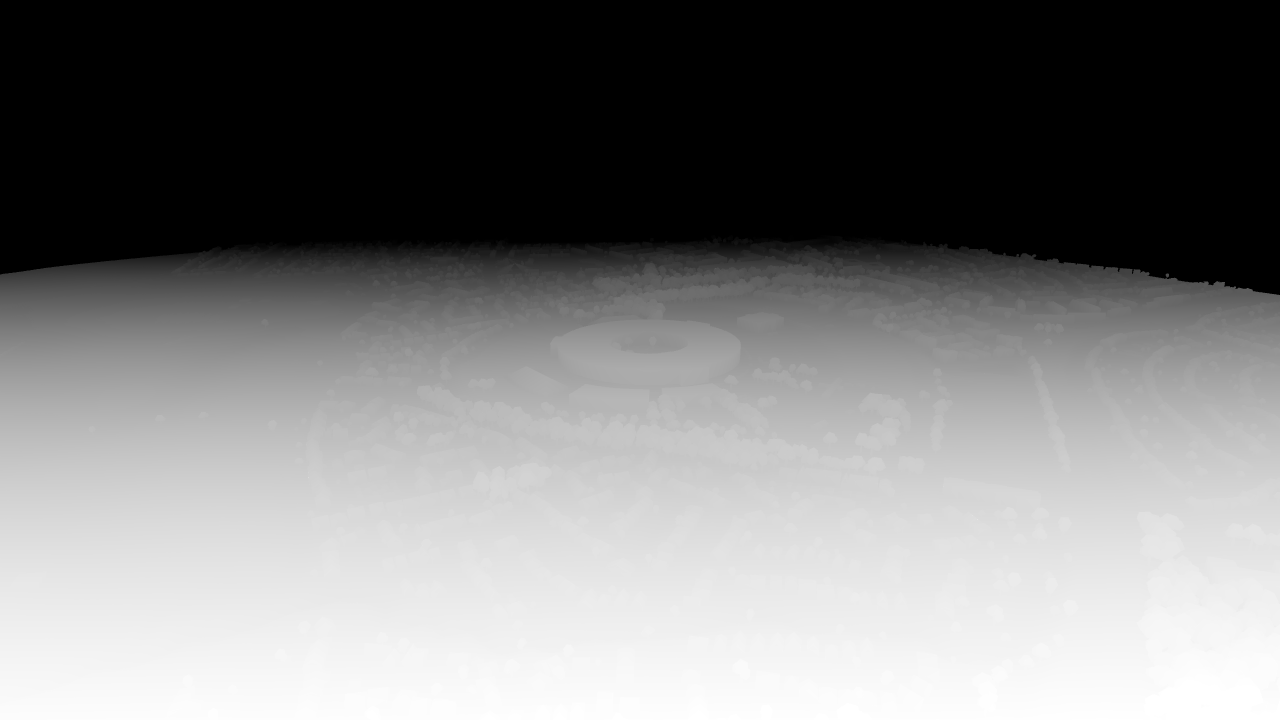
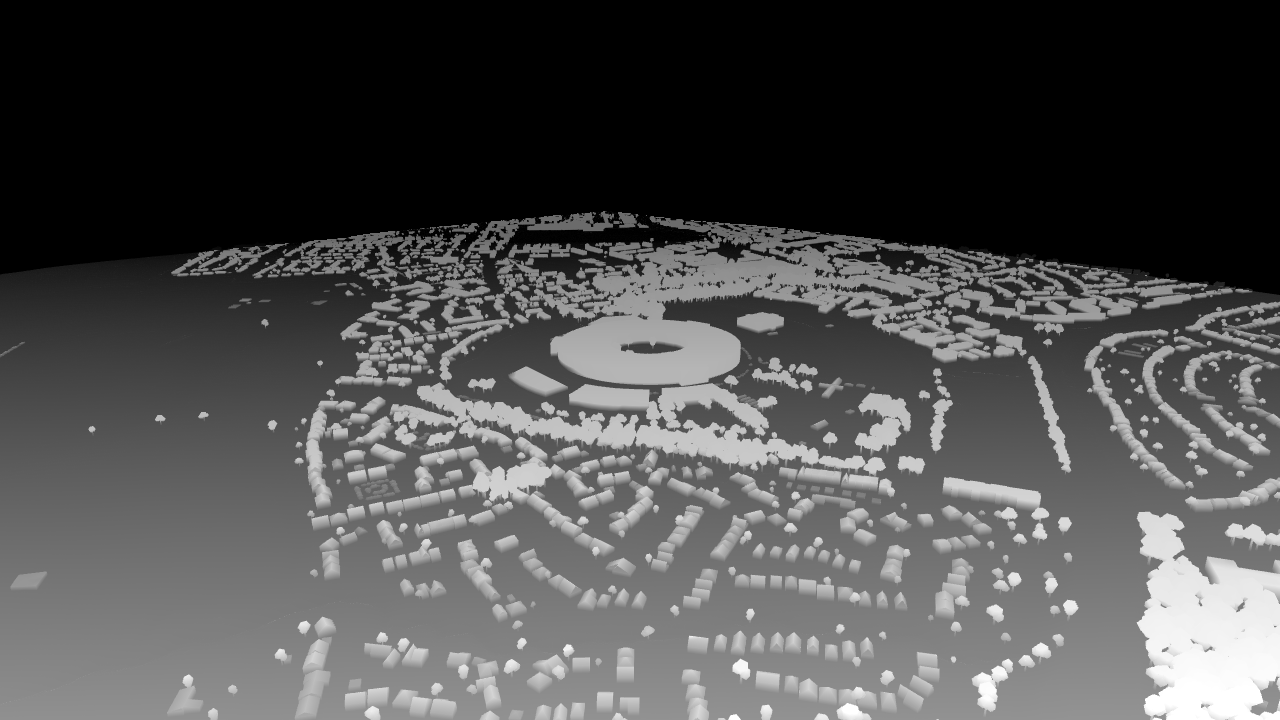
Put Session K's depth fix in the renderer, where it can be reproduced
The ladder's verdict came back mid-session — no Blender, the geometry
carries, the encoding was what failed — and it indicts a pass shipped that
morning. Session K fixed it by hand: two PNGs made once, outside the
pipeline, for one view. This puts the fix where it belongs.

capture_passes.py now writes the conditioning encoding directly for every
view and every future site: disparity for the ramp, because 1/z is what
control nets are trained on and it spends its precision where the buildings
are, plus the true height above the terrain. Not a filtered residual — the
terrain is rendered to its own target first, so it is the real height of the
thing above the ground it stands on. The linear metric pass is still written
as <view>-metric.png for anything that wants metres.

And it measures what it produced, because that is the number that diagnosed
the failure and it deserves to be a standing check:

    aerial     10.32 grey levels of relief   (0.32 before the fix, 1.07 before that)
    approach    5.26
    gv-site     0.53   <-- TOO FLAT to condition on

The warning firing on gv-site is the check being right. That site is an empty
field; there is nothing standing there to condition on, which is exactly the
case Phase 5 exists for.

The bug took four attempts and every one looked like a tuning problem. The
relief term was exactly zero while the image still looked plausible — a
disparity ramp that simply was not very good — so three goes went on
[…]

diff --git a/experiments/002-living-map/passes/main.js b/experiments/002-living-map/passes/main.js
@@ -8,8 +8,9 @@
 // have, measured, and these are the passes that say so:
 //
 //   beauty   the map as it renders — composition, light, colour
-//   depth    linear view depth, near white, far black, with the near and far
-//            planes written into the sidecar so the number means something
+//   depth    what a depth-conditioned model should actually be given, which
+//            is NOT linear metres — see below
+//   metric   linear view depth in metres, for anything that wants the number
 //   normal   world-space normals — surface orientation, which is what tells a
 //            model a roof is a roof and not a paving slab
 //   mask     flat colour by category: ground, road, water, building, tree
@@ -18,7 +19,28 @@
 // switched off and the birds hidden — see setStructureMode. A pass that
 // disagrees with the beauty frame by a metre is worse than no pass at all.
 //
-//   ?cam=x,y,z  ?look=x,z  ?pass=beauty|depth|normal|mask  ?size=W,H
+// ── Why the depth pass is not linear ─────────────────────────────────────
+//
+// It was, this morning, and Session K measured what that cost. Fitted over a
+// 357–1580 m view, mean local relief across the built band came out at **1.07
+// grey levels out of 255**: a 15 m house is under half a percent of the
+// range. A control net handed that image sees a ground ramp and nothing else,
+// reproduces the ramp faithfully and invents everything on top of it — which
+// it did, beautifully, as the wrong town. Our geometry was never in the file
+// we gave it.
+//
+// Two changes fix it, and neither is new geometry:
+//
+//   disparity   1/z rather than z, which is what depth-conditioned models are
+//               trained on, and which spends its precision near the camera
+//               where the buildings are
+//   relief      height above the *terrain* at that pixel, added on top. Not a
+//               filtered residual — the terrain is rendered to its own target
+//               first, so this is the exact height of the thing above the
+//               ground it stands on, which is what a house is.
+//
+//   ?cam=x,y,z  ?look=x,z  ?pass=beauty|depth|metric|normal|mask  ?size=W,H
+//   ?relief=30  metres of height that map to full relief brightness
 
 import * as THREE from 'three';
 import { buildWorld, updateLife, heightAtLocal, toLocal } from '../golden-valley/scene.js';
@@ -64,8 +86,36 @@ const CHUNKS = `
   #include <batching_pars_vertex>
   #include <logdepthbuf_pars_vertex>`;
 
-const depthMaterial = new THREE.ShaderMaterial({
-  uniforms: { uNear: { value: near }, uFar: { value: far }, uPack: { value: 0 } },
+const reliefMetres = Number(params.get('relief') ?? 16);
+
+// The terrain on its own, in linear metres, so the pass that follows can ask
+// "how far above the ground is this pixel?" and get the real answer rather
+// than a high-pass filter's opinion of it.
+// Eight bits a channel, not float. A float colour buffer needs
+// EXT_color_buffer_float, which this container's software GL does not have,
+// and three.js does not complain — it hands back a target full of zeros, the
+// relief term evaluates to nothing, and the pass looks like a disparity ramp
+// that simply is not very good. Depth is packed across three bytes instead,
+// which is renderable everywhere and holds 8 km to a third of a centimetre.
+const terrainTarget = new THREE.WebGLRenderTarget(W, H, {
+  type: THREE.UnsignedByteType, format: THREE.RGBAFormat,
+  minFilter: THREE.NearestFilter, magFilter: THREE.NearestFilter,
+});
+const PACK_SCALE = 8192;
+
+// The prepass gets its own material, and the reason is not tidiness. Sharing
+// one program means the terrain target is bound to a sampler uniform of the
+// very program that is drawing into it — a feedback loop, which WebGL leaves
+// undefined and this driver resolves by dropping the draw silently. The
+// target came back empty, the relief term evaluated to zero, and the pass
+// looked exactly like a disparity ramp that was simply not very good.
+const PACK_GLSL = `
+  float z = clamp(vDepth / ${PACK_SCALE}.0, 0.0, 0.999999);
+  gl_FragColor = vec4(floor(z * 255.0) / 255.0,
+                      floor(fract(z * 255.0) * 255.0) / 255.0,
+                      fract(z * 65025.0), 1.0);`;
+
+const terrainDepthMaterial = new THREE.ShaderMaterial({
   vertexShader: `
     ${CHUNKS}
     varying float vDepth;
@@ -75,9 +125,51 @@ const depthMaterial = new THREE.ShaderMaterial({
       vDepth = -mvPosition.z;
     }`,
   fragmentShader: `
-    uniform float uNear, uFar, uPack;
+    varying float vDepth;
+    void main() {${PACK_GLSL}}`,
+});
+
+const depthMaterial = new THREE.ShaderMaterial({
+  uniforms: {
+    uNear: { value: near }, uFar: { value: far }, uPack: { value: 0 },
+    uMode: { value: 0 },            // 0 metric, 1 conditioning
+    uPackScale: { value: PACK_SCALE },
+    uTerrain: { value: terrainTarget.texture },
+    uResolution: { value: new THREE.Vector2(W, H) },
+    uRelief: { value: reliefMetres },
+  },
+  vertexShader: `
+    ${CHUNKS}
     varying float vDepth;
     void main() {
+      #include <begin_vertex>
+      #include <project_vertex>
+      vDepth = -mvPosition.z;
+    }`,
+  fragmentShader: `
+    uniform float uNear, uFar, uPack, uMode, uRelief, uPackScale;
+    uniform sampler2D uTerrain;
+    uniform vec2 uResolution;
+    varying float vDepth;
+    void main() {
+      if (uMode > 0.5) {
+        // Disparity for the ramp, because 1/z is what these models are
+        // trained on and it spends its precision where the buildings are.
+        float inv = 1.0 / max(vDepth, 0.001);
+        float ramp = clamp((inv - 1.0 / uFar) / (1.0 / uNear - 1.0 / uFar), 0.0, 1.0);
+        // Disparity is steep near the camera, so raw 1/z leaves most of an
+        // aerial frame crushed into the bottom of the range with no room for
+        // anything to stand up out of it. The gamma spreads the ramp back out.
+        ramp = pow(ramp, 0.6);
+        // Plus the exact height above the ground underneath. Not a filtered
+        // residual — the terrain went to its own target first, so this is the
+        // real height of the thing above what it stands on.
+        vec3 packed = texture2D(uTerrain, gl_FragCoord.xy / uResolution).rgb;
+        float ground = dot(packed, vec3(1.0, 1.0 / 255.0, 1.0 / 65025.0)) * uPackScale;
+        float relief = clamp((ground - vDepth) / uRelief, 0.0, 1.0);
+        gl_FragColor = vec4(vec3(clamp(ramp * 0.58 + relief * 0.42, 0.0, 1.0)), 1.0);
+        return;
+      }
       if (uPack > 0.5) {
         // Measuring pass: distance packed across 24 bits so it can be read
         // back in metres. The background stays exactly zero, which geometry
@@ -246,8 +338,24 @@ function render() {
     });
     renderer.render(scene, camera);
     for (const [o, m] of saved) o.material = m;
-  } else if (pass === 'depth') {
+  } else if (pass === 'depth' || pass === 'metric') {
     fitDepthRange();
+    depthMaterial.uniforms.uMode.value = pass === 'depth' ? 1 : 0;
+    if (pass === 'depth') {
+      // Terrain only, to its own target, before anything else is drawn.
+      const hidden = [];
+      scene.traverse((o) => {
+        if (o.isMesh && !o.material.vertexColors && o !== dome && o.visible) {
+          o.visible = false;
+          hidden.push(o);
+        }
+      });
+      scene.overrideMaterial = terrainDepthMaterial;
+      renderer.setRenderTarget(terrainTarget);
+      renderer.render(scene, camera);
+      renderer.setRenderTarget(null);
+      for (const o of hidden) o.visible = true;
+    }
     scene.overrideMaterial = depthMaterial;
     renderer.render(scene, camera);
     scene.overrideMaterial = null;
@@ -267,9 +375,18 @@ render();
 
 window.__pass = {
   pass, size: [W, H], cam: camPos, look, fov: camera.fov,
-  depth: pass === 'depth'
-    ? { nearMetres: Math.round(near * 10) / 10, farMetres: Math.round(far * 10) / 10,
-        encoding: 'near=white, far=black, linear in view space, range fitted to the frame' }
+  depth: (pass === 'depth' || pass === 'metric')
+    ? {
+        nearMetres: Math.round(near * 10) / 10,
+        farMetres: Math.round(far * 10) / 10,
+        encoding: pass === 'depth'
+          ? 'near=white. 0.58 x disparity^0.6 (1/z, fitted to the range) + 0.42 x '
+            + `height above the terrain over ${reliefMetres} m. For conditioning, `
+            + 'not for measuring — use the metric pass for metres.'
+          : 'near=white, far=black, linear in view space, range fitted to the '
+            + 'frame. metres = far - value/255 * (far - near).',
+        reliefMetres: pass === 'depth' ? reliefMetres : null,
+      }
     : null,
   maskColours: pass === 'mask'
     ? Object.fromEntries(Object.entries(MASK).map(([k, v]) => [k, `#${v.toString(16).padStart(6, '0')}`]))

diff --git a/scripts/capture_passes.py b/scripts/capture_passes.py
@@ -33,7 +33,14 @@ ROOT = Path(__file__).resolve().parent.parent
 SITE = ROOT / "experiments" / "002-living-map"
 OUT = SITE / "passes" / "out"
 CHROMIUM = Path("/opt/pw-browsers/chromium-1194/chrome-linux/chrome")
-PASSES = ("beauty", "depth", "normal", "mask")
+PASSES = ("beauty", "depth", "metric", "normal", "mask")
+
+# The number that diagnosed Session K's failure, made into a standing check.
+# A depth pass carrying a smooth ramp and 1.07 grey levels of building relief
+# looks perfectly reasonable and is useless: the control net sees the ramp,
+# reproduces it faithfully, and invents the town on top. So every pass is
+# measured, and a thin one says so out loud.
+MIN_RELIEF_LEVELS = 4.0
 
 # Two views on purpose, because Session B's finding is that the generator's
 # error tracks detail density: the wide aerial holds thousands of tiny
@@ -68,6 +75,21 @@ def serve(port):
     srv = http.server.ThreadingHTTPServer(("127.0.0.1", port), H)
     threading.Thread(target=srv.serve_forever, daemon=True).start()
     return srv
+
+
+def relief_levels(path):
+    """Mean local relief in grey levels — how much of the image is *detail*
+    rather than gradient. Measured the way Session K measured it: the mean
+    absolute difference from a 9-pixel box blur, over the middle band where
+    the buildings are."""
+    from PIL import Image, ImageFilter
+    import numpy as np
+    im = Image.open(path).convert("L")
+    w, h = im.size
+    band = im.crop((0, int(h * 0.35), w, int(h * 0.85)))
+    a = np.asarray(band, dtype=float)
+    b = np.asarray(band.filter(ImageFilter.BoxBlur(4)), dtype=float)
+    return float(np.abs(a - b).mean())
 
 
 def capture(browser, url, dest, size):
@@ -134,7 +156,14 @@ def main():
                     sidecar["depth"] = meta["depth"]
                 if meta and meta.get("maskColours"):
                     sidecar["maskColours"] = meta["maskColours"]
-                print(f"  ok   {dest.name}  {dest.stat().st_size // 1024} KB")
+                note = ""
+                if p in ("depth", "metric"):
+                    lv = relief_levels(dest)
+                    sidecar.setdefault("reliefGreyLevels", {})[p] = round(lv, 2)
+                    note = f"  relief {lv:5.2f} levels"
+                    if p == "depth" and lv < MIN_RELIEF_LEVELS:
+                        note += "  <-- TOO FLAT to condition on"
+                print(f"  ok   {dest.name}  {dest.stat().st_size // 1024:4} KB{note}")
             (OUT / f"{name}.json").write_text(json.dumps(sidecar, indent=2))
             print(f"wrote {OUT / (name + '.json')}")
         browser.close()

diff --git a/scripts/generation_ladder.py b/scripts/generation_ladder.py
@@ -106,7 +106,10 @@ RUNGS = {
     },
     2: {
         "kind": "image",
-        "why": "the same view conditioned on depth instead of on our picture",
+        "why": "the same view conditioned on structure instead of on our "
+               "picture — now on the corrected depth encoding, which carries "
+               "10.3 grey levels of building relief where the linear one "
+               "carried 1.07 and the control net saw a bare ground ramp",
         "model": "fal-ai/flux-control-lora-depth",
         "inputs": ["aerial-depth.png"],
         "args": lambda p: {
@@ -123,11 +126,17 @@ RUNGS = {
             "num_images": 2,
         },
     },
+    # Rungs 5 and 6 are kept as the record of how the encoding was diagnosed,
+    # and they run against two images that were made by hand, once, for one
+    # view. The fix is now in the renderer instead: capture_passes.py writes
+    # the conditioning encoding as `<view>-depth.png` for every view and every
+    # site, and reports the relief it carries so a flat one cannot ship
+    # quietly again. Rung 2 is the live rung; 5 and 6 are the archaeology.
     5: {
         "kind": "image",
-        "why": "rung 2 again, on a depth pass whose range is not spent on the "
-               "ground ramp — the control test for whether rung 2 failed "
-               "because our geometry is thin or because our encoding was",
+        "why": "ARCHIVE — rung 2 again on a hand-refitted depth pass; the "
+               "control test for whether rung 2 failed because our geometry "
+               "is thin or because our encoding was",
         "model": "fal-ai/flux-control-lora-depth",
         "inputs": ["aerial-depth-refit.png"],
         "args": lambda p: {
@@ -140,9 +149,9 @@ RUNGS = {
     },
     6: {
         "kind": "image",
-        "why": "rung 2 a third time, on depth re-encoded as disparity (1/z) — "
-               "the convention control nets are trained on — so the ramp still "
-               "carries camera pitch while the buildings become legible",
+        "why": "ARCHIVE — the hand-made disparity encoding that first "
+               "recovered the structure. capture_passes.py now writes this "
+               "shape of image directly, so rung 2 is the one to run",
         "model": "fal-ai/flux-control-lora-depth",
         "inputs": ["aerial-depth-disparity.png"],
         "args": lambda p: {

diff --git a/experiments/002-living-map/session-log.md b/experiments/002-living-map/session-log.md
@@ -1295,4 +1295,48 @@ printing the confusion matrix to see that the "improvement" had cut hipped
 roofs from 658 to 392 in a town that has more than that. An accuracy that
 goes up while the output gets worse is the most flattering kind of wrong.
 
-Next 20-minute experiment: whichever way the ladder falls.
+### Then Session K's answer landed mid-session, and changed this one
+
+The ladder came back while this was running, and its verdict — *no Blender,
+the geometry carries, our depth encoding was what failed* — indicts a pass I
+had shipped that same morning. Session K fixed it by hand, once, for one
+view: two PNGs made outside the pipeline. So the last hour of this session
+was putting the fix where it belongs.
+
+`capture_passes.py` now writes the conditioning encoding directly, for every
+view and every future site: disparity for the ramp, because 1/z is what
+control nets are trained on, plus the **true height above the terrain** — the
+terrain is rendered to its own target first, so it is the real height of the
+thing above the ground it stands on rather than a high-pass filter's opinion
+of it. And it measures what it produced:
+
+```
+  aerial     10.32 grey levels of relief   (was 0.32, and 1.07 before that)
+  approach    5.26
+  gv-site     0.53   <-- TOO FLAT to condition on
+```
+
+The warning firing on `gv-site` is the check being right, not wrong: that
+site is an empty field. There is nothing standing there to condition on,
+which is exactly the case Phase 5 exists for.
+
+**The bug took four attempts and every one of them looked like a tuning
+problem.** The relief term was exactly zero and the image still looked
+plausible — a disparity ramp that simply was not very good — so the first
+three goes were spent adjusting weights. Only rendering the relief channel on
+its own showed it was flat zero, and rendering the terrain prepass to the
+screen showed the prepass itself was fine. The cause was a texture feedback
+loop: the material sampling the terrain target was the same material bound as
+`overrideMaterial` while drawing *into* that target. WebGL leaves that
+undefined and this driver resolves it by dropping the draw, silently. Giving
+the prepass its own program fixed it: relief 0.32 → 10.32.
+
+Session K's own lesson was that an image can be beautiful and wrong. This is
+the same shape one level down: a *pass* can be plausible and empty, and the
+only thing that caught it was measuring the channel instead of looking at the
+picture — which is now a standing check with a threshold, because it will
+happen again.
+
+Next 20-minute experiment: Session K's, which is now unblocked — hand the
+`building` class from the mask to the depth-conditioned rung and see whether
+the doughnut stops being an earthwork.

diff --git a/experiments/002-living-map/descent/LADDER-SESSION.md b/experiments/002-living-map/descent/LADDER-SESSION.md
@@ -30,10 +30,22 @@ all from one camera at one instant, wind off and birds hidden:
 | | |
 |---|---|
 | `<view>-beauty.png` | the map as it renders |
-| `<view>-depth.png` | linear view depth, near white, far black, range fitted to the frame |
+| `<view>-depth.png` | **the conditioning encoding** — disparity plus true height above the terrain. Not metres; this is the one to condition on |
+| `<view>-metric.png` | linear view depth in metres, range fitted to the frame, for anything that wants the number |
 | `<view>-normal.png` | world-space normals |
 | `<view>-mask.png` | flat colour by class **and by material family** — walls, domestic slate roofs, terrace roofs, shed roofs, civic roofs, road, hardstanding, water, field, wood, tree |
 | `<view>.json` | camera, field of view, the fitted depth planes **in metres**, the mask palette |
+
+Every capture reports the **mean local relief in grey levels** each depth
+pass carries, and warns below four. That number is the whole lesson of the
+first ladder run: a linear depth pass fitted over 357–1580 m gave a 15 m
+house 1.07 grey levels out of 255, the control net saw a ground ramp and
+nothing else, reproduced the ramp faithfully and invented a beautiful and
+completely wrong town on top of it. The corrected pass carries 10.3.
+
+It is worth knowing which way the warning can fire honestly: `gv-site`
+reports 0.53 and is **right to**. That site is an empty field. There is
+nothing there to condition on, which is exactly what Phase 5 is for.
 
 Views: `aerial` (camera A of the doughnut descent — wide and dense),
 `approach` (camera B — low, a few large masses), `gv-site` (the Golden Valley
